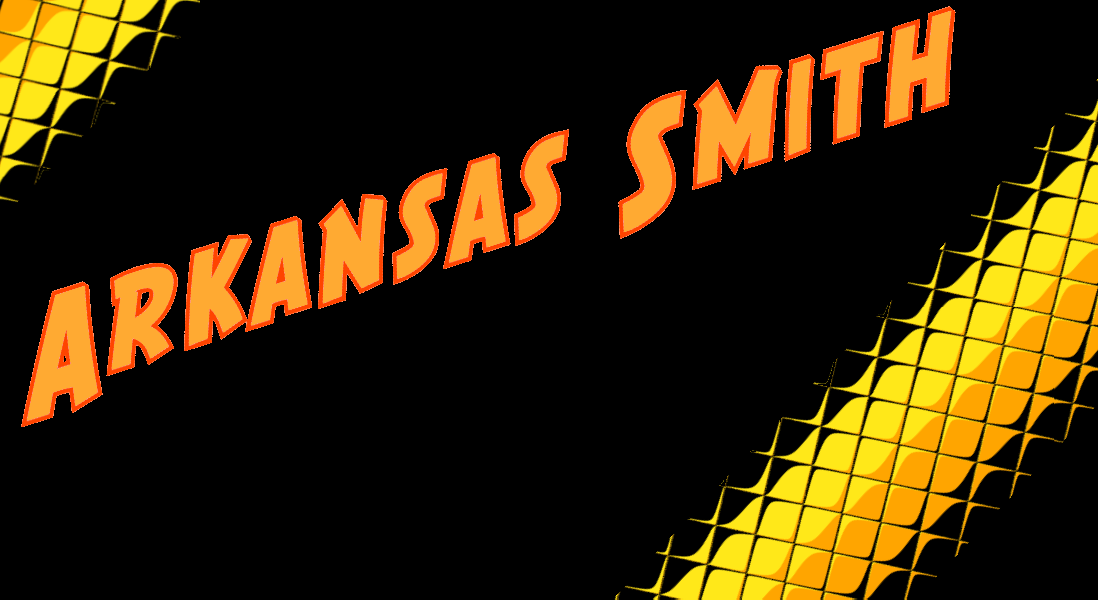
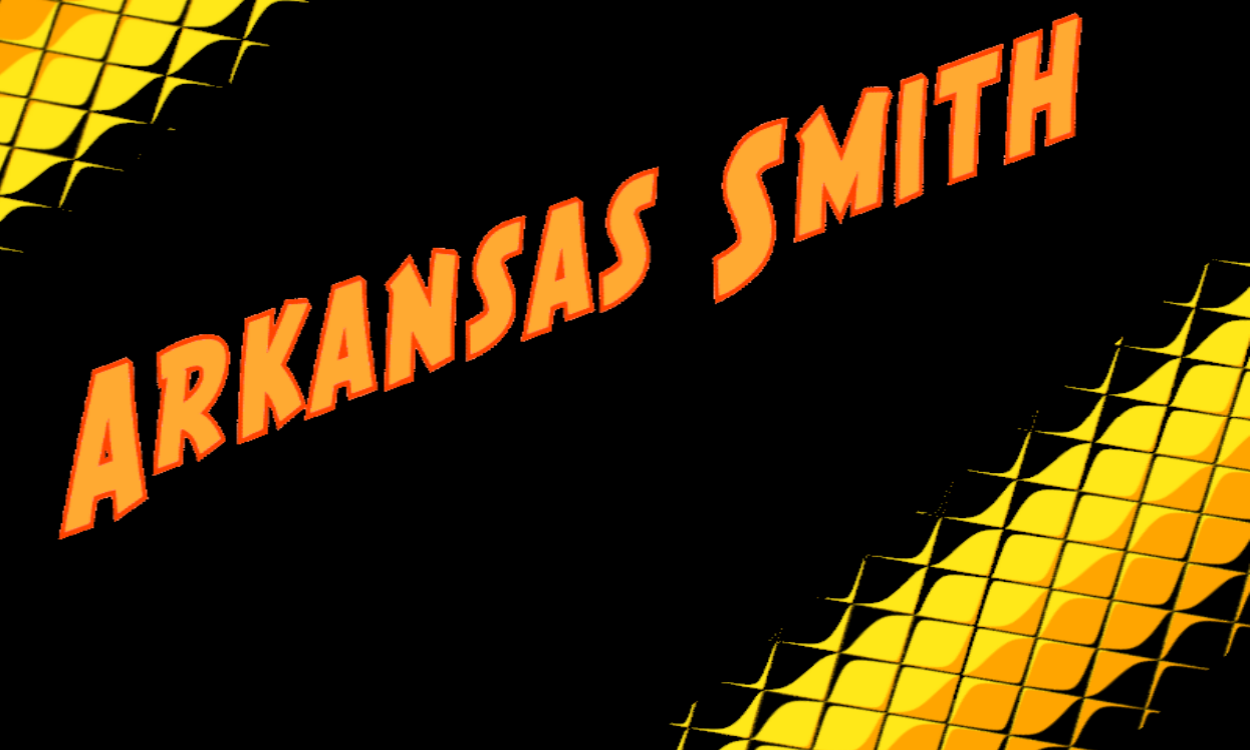
Art and other stuff

diff --git a/Game.py b/Game.py
@@ -21,7 +21,7 @@ size = width,height
 
 screen = pygame.display.set_mode(size)
 
-bgImage = pygame.image.load("Art/BackupBackgroundThanks Gage.png")
+bgImage = pygame.image.load("TitleAS.png")
 bgRect = bgImage.get_rect()
 
 balls = pygame.sprite.Group()
@@ -48,8 +48,8 @@ Score.containers = (all, hudItems)
 run = False
 
 startButton = Button([width/2, height-100],
-                     "Art/Button/Start_Base.png",
-                     "Art/Button/Start_Clicked.png")
+                     "Art/Button/StartButtonAS.png",
+                     "Art/Button/StartButtonAS.png")
 
 while True:
     while not run:

diff --git a/Player1.py b/Player1.py
@@ -4,8 +4,8 @@ from Player import PlayerBase
 class Player1(pygame.sprite.Sprite):
     def __init__(self, pos):
         pygame.sprite.Sprite.__init__(self, self.containers)
-        self.upImage = pygame.image.load("ArkansasSimth.png")
-        self.downImage = pygame.image.load("ArkansasSimth.png")
+        self.upImage = pygame.image.load("ArkBack.png")
+        self.downImage = pygame.image.load("Art/ArkansasSimth.png")
         self.leftImage = pygame.image.load("Art/Arkansas Smith Left.png")
         self.rightImage = pygame.image.load("Art/Arkansas Smith Right.png")
     
